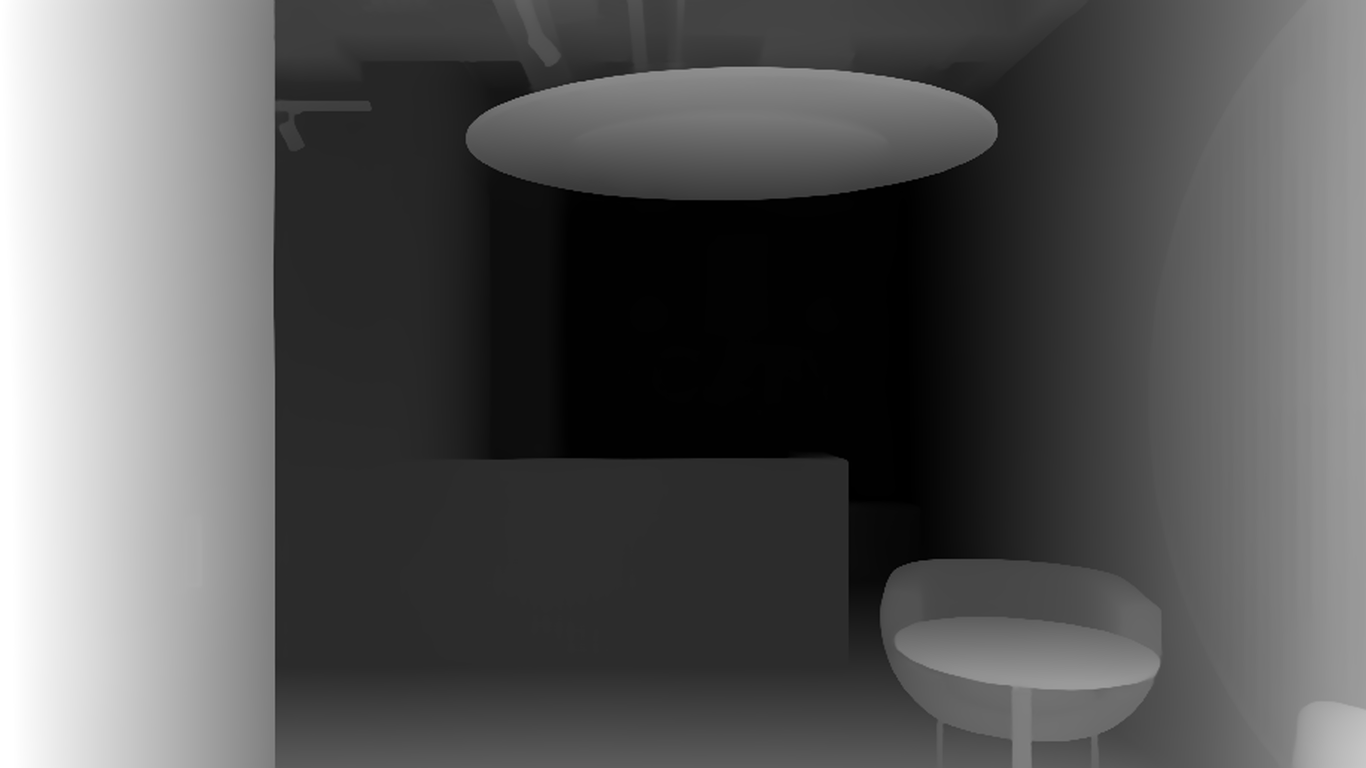
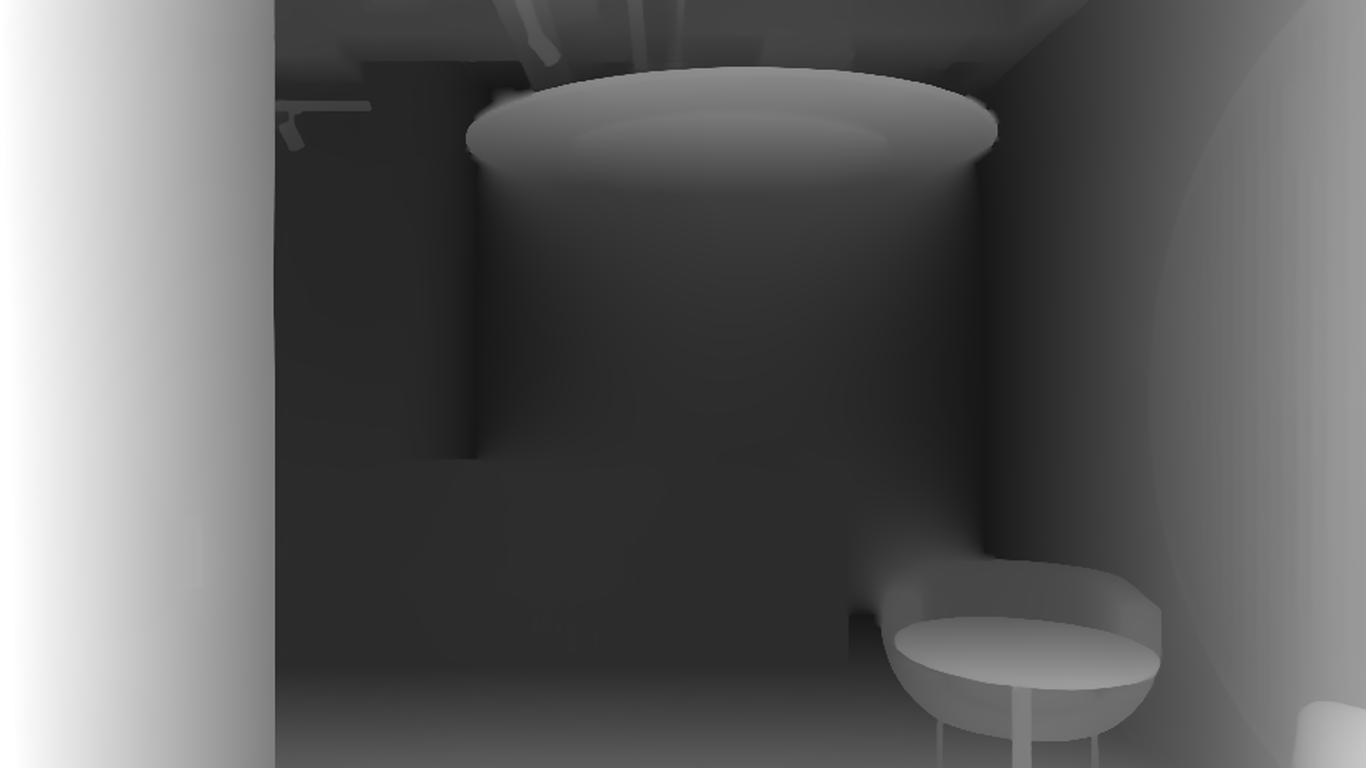
fix(parallax): провал глубины за стойкой ресепшна, не только в плафоне
Прошлый фикс (эллипс по яркости плафона) поймал только сам плафон.
Реальный провал глубины (значение <22 из 255, то есть «на бесконечности»)
занимал 14% кадра — всю стену за стойкой с логотипом iC/TY и бра,
от плафона до столешницы, а не только плафон. При курсоре у края экрана
эта плоскость почти не сдвигалась, а всё вокруг неё — прилично, отсюда
и ощущение «часть люстры отваливается»: обрыв был не в самой люстре,
а на границе люстры и стены за ней.

Залил гармонической интерполяцией связную область value<22 (минус уже
исправленный эллипс плафона — тот теперь работает как внутренняя
Dirichlet-граница наравне со внешним чистым контекстом стены/потолка/
столешницы). Переход плафон→стена остаётся резким по краю плафона
(это настоящая граница окклюзии, ей и положено быть видимой) — размыт
только сам провал за пределами эллипса. Проверено на обоих концах
амплитуды курсора локально.

Changed region(s): [[0.3382, 0.2188, 0.7379, 0.8125], [0.369, 0.0938, 0.3997, 0.125], [0.3382, 0.125, 0.369, 0.1562]]

diff --git a/docs/parallax.md b/docs/parallax.md
@@ -124,13 +124,28 @@
 сдвиге курсора обод и плафон расходились в разные стороны, и светильник
 читался как треснувший.
 
-**Правка:** эллиптическая маска плафона (центр и полуоси — из самого
-яркого связного пятна на цветном кадре, порог `gray > 235`, с запасом
-8–15 % на края) залита гармонической интерполяцией (уравнение Лапласа)
-от границы — то есть от валидных значений обода вокруг дыры, тем же
-приёмом, что описан выше для стены переговорной, но применённым, а не
-отклонённым. Маска — 2 % кадра, на медиану `d50` не повлияла, пересчёта
-`depth.json` не потребовалось.
+**Первая правка (эллиптическая маска плафона по яркому пятну,
+`gray > 235`) устранила только сам плафон, но не решила проблему.**
+Провал глубины оказался больше одного объекта: под плафоном и вокруг
+него, по всей стене за стойкой — вплоть до столешницы, 14 % кадра —
+модель тоже читала около нуля, хотя на цветном кадре это освещённая
+стена с логотипом iC/TY и двумя бра, а не пустой тёмный колодец.
+Стена без выступающих объёмных деталей рядом с ярким источником света
+дала такой же провал, как и сам плафон, — те же причины, тот же
+масштаб, просто не замеченные с первого захода: маска по яркости ловит
+только пересвеченные пиксели плафона, а не всю область, где модель
+потеряла след.
+
+**Правка:** маска — связная область `value < 22` (порог по самой карте
+глубины, не по цвету), расширенная на 4 px, минус уже исправленный
+эллипс плафона. Залита гармонической интерполяцией, но с одним важным
+отличием от письма выше: границей служит не только чистое кольцо стены
+снаружи провала, но и сам эллипс плафона изнутри — то есть плафон
+работает как источник глубины наравне со стеной, из-за чего переход
+от плафона к стене остаётся резким (это реальная граница окклюзии,
+её обязано быть видно), а не размазывается заодно с остальным. Маска —
+15 % кадра, на медиану `d50` не повлияла, пересчёта `depth.json` не
+потребовалось.
 
 ## Шейдер
 
